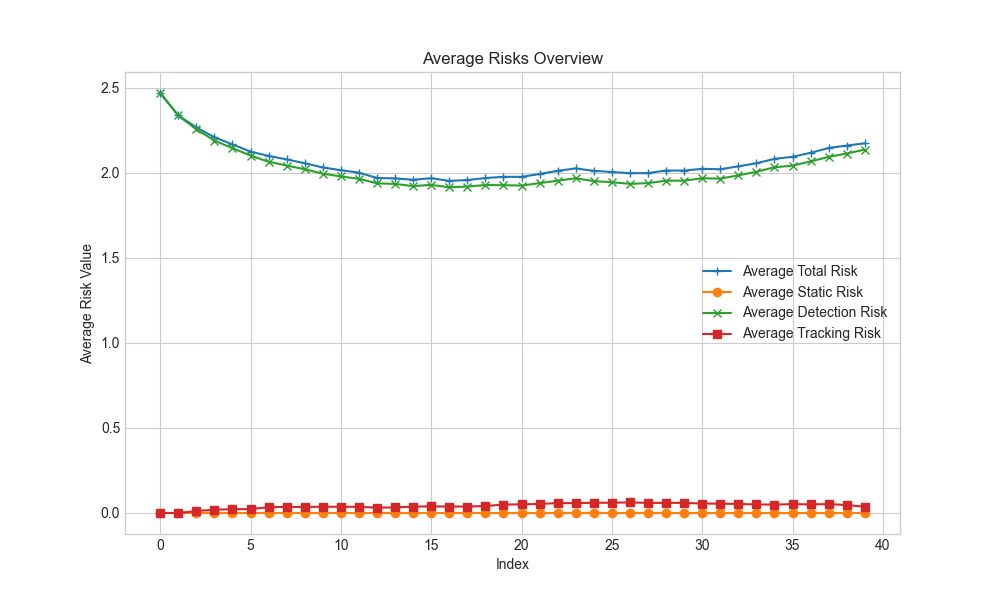
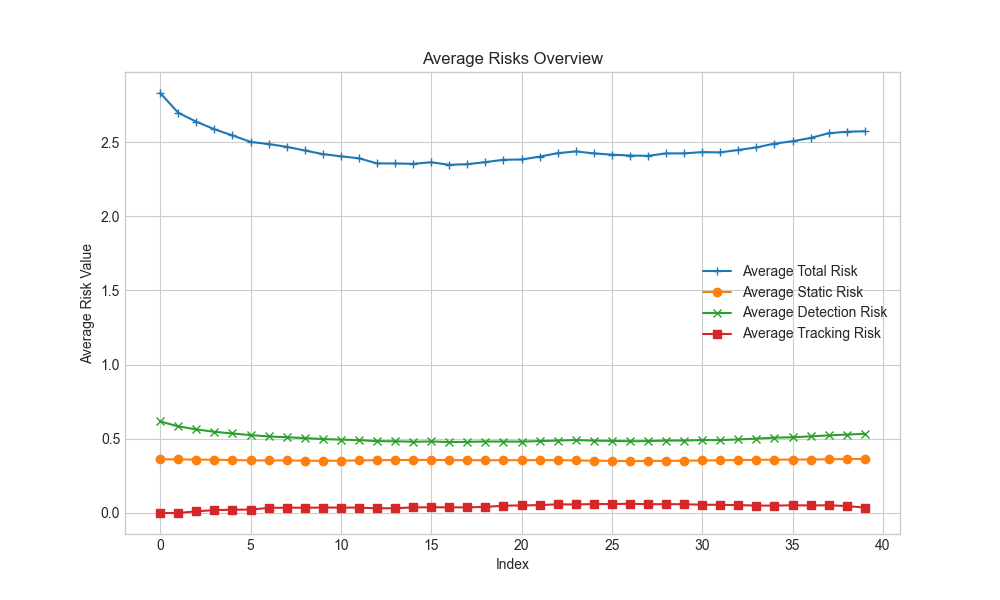
Added more comments

diff --git a/Scripts/Main.py b/Scripts/Main.py
@@ -46,120 +46,146 @@ risk_weights = (1, 4, 2) # (0.5, 2, 10) # static, detection, tracking
 
 scene_id = 1
 RESOLUTION = 0.5 # meter
-run_detect = True
+run_detect = False
 run_obj = False
 plot_layers = False
 plot_pointcloud = False
 show_pointcloud = False
 plot_occ_hist = False
+plot_occ = False
+plot_risk = False
 
 constant_power = True
 
 def main(map_short, id, LIDAR_RANGE, RESOLUTION, OCC_ACCUM, LIDAR_DECAY, constant_power):
-
+    # Entry point for the main simulation function
     print("Starting main function...")
+
+    # Initialize the map object with given parameters
     map = Map(dataroot, map_name, map_width, map_height, id, LIDAR_RANGE, RESOLUTION, OCC_ACCUM, LIDAR_DECAY)
 
+    # Determine the simulation type based on power mode
     if constant_power:
         sim_type = 'Constant Power'
     else:
         sim_type = 'Variable Power'
-    # Create a folder to save the run and plots if it doesn't already exist
-    # Create the Run/Boston/scene 1 folder structure
-    run_folder = os.path.join("Runs", map_short, f"scene {id} res={RESOLUTION}", sim_type)
-    os.makedirs(run_folder, exist_ok=True)
 
-    plots_folder = os.path.join(run_folder,'plots')
+    # Create a folder structure to save the run results and plots
+    run_folder = os.path.join("Runs", map_short, f"scene {id} res={RESOLUTION}", sim_type)
+    os.makedirs(run_folder, exist_ok=True)  # Ensure the directory exists
+
+    # Create subdirectories for storing plots and GIFs
+    plots_folder = os.path.join(run_folder, 'plots')
     os.makedirs(plots_folder, exist_ok=True)
 
-    gif_folder = os.path.join(run_folder,'GIFs')
+    gif_folder = os.path.join(run_folder, 'GIFs')
     os.makedirs(gif_folder, exist_ok=True)
 
-    # Paths for data, plots, and subfolders
+    # Paths for data and specific plots
     scene_data_path = os.path.join(run_folder, "data")
     layer_plot_path = os.path.join(plots_folder, "layers.png")
+
+    # Subdirectories for specific plot types
     risk_plots_folder = os.path.join(plots_folder, "risks")
     pointclouds_folder = os.path.join(plots_folder, "pointclouds")
     pointclouds_overlay_folder = os.path.join(plots_folder, "pointclouds overlay")
     occ_folder = os.path.join(plots_folder, "occurrence")
     occ_hist_folder = os.path.join(plots_folder, "occurrence histograms")
-    
-    # Create subfolders
+
+    # Ensure subdirectories exist
     os.makedirs(risk_plots_folder, exist_ok=True)
     os.makedirs(pointclouds_folder, exist_ok=True)
     os.makedirs(pointclouds_overlay_folder, exist_ok=True)
     os.makedirs(occ_folder, exist_ok=True)
     os.makedirs(occ_hist_folder, exist_ok=True)
 
-    # Assign layers to the grid in parallel
+    # Assign layers to the map grid
     map.assign_layer(scene_data_path, prnt=False)
-    
-    # Generate and save the layer plot
+
+    # Optionally generate and save a plot of the map layers
     if plot_layers:
         Visualise.plot_layers(map.grid, layer_plot_path)
 
-    # Initialize risk calculation
+    # Initialize components for risk calculation, object tracking, and detection
     risk = Risk()
     obj = Object(map)
     dec = Detect(map, constant_power=constant_power)
 
-    # Calculate risk for each sample
+    # Process each sample in the map
     for i, sample in enumerate(map.samples):
-        #TODO add a check if it has already been set
+        # Update object data if required
         if run_obj:
-            map.grid.total_obj[i], map.grid.total_obj_sev[i] = obj.update(sample=sample,x=0,y=0,sample_index=i, prnt=False)
+            map.grid.total_obj[i], map.grid.total_obj_sev[i] = obj.update(sample=sample, x=0, y=0, sample_index=i, prnt=False)
 
-        #TODO add a check if it has already been set
+        # Update detection data if required
         if run_detect:
             dec.update(sample=sample, sample_index=i, prnt=False)
-        
-        # Save individual pointcloud plots
+
+        # Save point cloud plots for each sample
         if plot_pointcloud:
             Visualise.save_pointcloud_scatterplot(map, dec.lidarpoint, i, pointclouds_folder, overlay=False)
             Visualise.save_pointcloud_scatterplot(map, dec.lidarpoint, i, pointclouds_overlay_folder, overlay=True)
-        
+
         print(f"sample {i} complete\n")
 
-    # normalise the risk elements between 0 and 1
-    # calculate the total risk based on the weights
+    # Normalize risk data and calculate total risk
     normalise_and_calc_risks(map, risk_weights)
 
+    # Retrieve global maxima for visualization scaling
     maxs = get_global_max(map=map)
-    for i, sample in enumerate(map.samples):
-        # update total variables
-        map.update(sample=sample,i=i, weights=risk_weights)
 
-        # Save individual risk plots
-        Visualise.plot_risks_maximised(map.grid, i, maxs, risk_plots_folder)
-        Visualise.plot_occ(map.grid, i, occ_folder)   
-        
-        # plot occurrence range histograms
+    # Update map grid with risk and object metrics, and generate plots for each sample
+    for i, sample in enumerate(map.samples):
+        map.update(i=i, weights=risk_weights)  # Update grid with calculated weights
+
+        if plot_risk:
+            Visualise.plot_risks_maximised(map.grid, i, maxs, risk_plots_folder)
+
+        if plot_occ:
+            Visualise.plot_occ(map.grid, i, occ_folder)
+
         if plot_occ_hist:
             Visualise.plot_occ_histogram(map, i, occ_hist_folder)
 
-    # save the grid with the new risk values 
+    # Save updated map grid with new risk values
     map.save_grid(scene_data_path)
 
+    # Generate summary plots for the simulation
     Visualise.plot_avg_risks(map.grid, plots_folder)
     Visualise.plot_avg_occ(map.grid.avg_occ, 'Average Occurrence', plots_folder)
     Visualise.plot_total_var(map.grid.total_obj, 'Total Objects', plots_folder)
     Visualise.plot_total_var(map.grid.total_obj_sev, 'Total Object severity', plots_folder)
     Visualise.plot_avg_occ_histogram(map, plots_folder)
 
-    # create gifs of all results
-    Visualise.create_gif_from_folder(risk_plots_folder, os.path.join(gif_folder,'risks.gif'))
-    Visualise.create_gif_from_folder(pointclouds_folder, os.path.join(gif_folder,'pointcloud.gif'))
-    Visualise.create_gif_from_folder(pointclouds_overlay_folder, os.path.join(gif_folder,'pointcloud_layers.gif'))
-    Visualise.create_gif_from_folder(occ_folder, os.path.join(gif_folder,'occurrence.gif'))
-    Visualise.create_gif_from_folder(occ_hist_folder, os.path.join(gif_folder,'occurrence_hist.gif'))
+    # Create GIFs for visualizing results
+    Visualise.create_gif_from_folder(risk_plots_folder, os.path.join(gif_folder, 'risks.gif'))
+    Visualise.create_gif_from_folder(pointclouds_folder, os.path.join(gif_folder, 'pointcloud.gif'))
+    Visualise.create_gif_from_folder(pointclouds_overlay_folder, os.path.join(gif_folder, 'pointcloud_layers.gif'))
+    Visualise.create_gif_from_folder(occ_folder, os.path.join(gif_folder, 'occurrence.gif'))
+    Visualise.create_gif_from_folder(occ_hist_folder, os.path.join(gif_folder, 'occurrence_hist.gif'))
 
-    # check scene data size, if more than 100MB give a warning message to add it to the gitignore
+    # Check the size of the scene data file and warn if it exceeds 100MB
     data_size = os.path.getsize(scene_data_path)
-    if (data_size > 100000000):
-        print(f'\nDATA FILE {scene_data_path} \nIS TOO BIG FOR GITHUB: ADD IT TO THE GITIGNORE FILE')
-    print('Done')
+    if data_size > 100000000:  # File size threshold in bytes
+        scene_data_path = scene_data_path.replace('\\', '/')  # Ensure path is in a standard format
+        try:
+            with open('.gitignore', 'r') as f:
+                gitignore_contents = f.read().splitlines()
+            if not any(scene_data_path in line for line in gitignore_contents):
+                print(f'\nDATA FILE {scene_data_path} \nIS TOO BIG FOR GITHUB: ADD IT TO THE GITIGNORE FILE')
+        except:
+            pass  # Silently handle exceptions if .gitignore is not accessible
+
+    print('Done')  # End of the main function
+
 
 def get_global_max(map):
+    """
+    Finds the global maximum values for total, static, detect, and track risks in the map.
+
+    Returns:
+    tuple: Maximum values for (total, static, detect, track) risks.
+    """
     max_total = max(np.max(np.array(matrix)) for matrix in [map.grid.get_total_risk_matrix(i) for i in range(map.grid.scene_length)])
     max_static = np.max(np.array(map.grid.get_static_risk_matrix()))
     max_detect = max(np.max(np.array(matrix)) for matrix in [map.grid.get_detect_risk_matrix(i) for i in range(map.grid.scene_length)])
@@ -167,25 +193,19 @@ def get_global_max(map):
     return (max_total, max_static, max_detect, max_track)
 
 def normalise_and_calc_risks(map, weights):
-    maxs = get_global_max(map)
-    max_total, max_static, max_detect, max_track = [value if value > 0 else 1 for value in maxs]
+    """
+    Normalizes risks and calculates total risk per cell using given weights.
+    """
+    max_total, max_static, max_detect, max_track = [value if value > 0 else 1 for value in get_global_max(map)]
     w_s, w_d, w_t = weights
-
-
-    print(f'maxs before norm = {maxs}')
-    print(f'max_track before norm = {max_track}')
+    
     for row in map.grid.grid:
         for cell in row:
-            cell.static_risk = cell.static_risk/max_static
+            cell.static_risk /= max_static
             cell.detect_risk = [detect_risk/max_detect for detect_risk in cell.detect_risk]
             cell.track_risk = [track_risk/max_track for track_risk in cell.track_risk]
             for i in range(len(cell.detect_risk)):
                 cell.total_risk[i] = w_s * cell.static_risk + w_d * cell.detect_risk[i] + w_t * cell.track_risk[i]
-    
-    maxs = get_global_max(map)
-    max_total, max_static, max_detect, max_track = [value if value > 0 else 1 for value in maxs]
-    print(f'maxs = after norm {maxs}')
-    print(f'max_track after norm = {max_track}')
 
 # This ensures that the code is only executed when the script is run directly
 if __name__ == '__main__':

diff --git a/Scripts/Grid.py b/Scripts/Grid.py
@@ -61,13 +61,13 @@ class Grid:
 
         return layer_counts
     
-    def calc_total_vars(self, rang, ego, i, weights):
+    def calc_avg_vars(self, rang, ego, i, weights):
         self.cells_off_interest = self.circle_of_interrest(rang, ego)
 
         self.cells_off_interest = [cell for cell in self.cells_off_interest if cell.layer != 'empty']
         num_nonempty_cells = len(self.cells_off_interest)
 
-        # initialise the variables 
+        # reset the variables 
         self.avg_total_risk[i] = 0
         self.avg_static_risk[i] = 0
         self.avg_detection_risk[i] = 0
@@ -79,8 +79,6 @@ class Grid:
             self.avg_static_risk[i] += cell.static_risk
             self.avg_detection_risk[i] += cell.detect_risk[i]
             self.avg_tracking_risk[i] += cell.track_risk[i]
-            #if i == 2:
-            #    print(f'cell.detect_risk[{i}] = {cell.detect_risk[i]}')
             self.avg_total_risk[i] += cell.total_risk[i]
             self.avg_occ[i] += cell.occ[i]
 
@@ -109,15 +107,10 @@ class Grid:
             smaller_range_cells.update(current_range_cells)
         w_static, w_detect, w_track = weights
 
-        self.avg_static_risk[i] *= w_static / num_nonempty_cells
-        self.avg_detection_risk[i] *= w_detect / num_nonempty_cells
-        self.avg_tracking_risk[i] *= w_track / num_nonempty_cells
-        self.avg_total_risk[i] = self.avg_static_risk[i] + self.avg_detection_risk[i] + self.avg_tracking_risk[i]
-
-        #print(f'avg static risk it {i} = {self.avg_static_risk[i]}')
-        #print(f'avg detection risk it {i} = {self.avg_detection_risk[i]}')
-        #print(f'avg tracking risk it {i} = {self.avg_tracking_risk[i]}')
-        #print(f'avg total risk it {i} = {self.avg_total_risk[i]}')
+        self.avg_static_risk[i] /= num_nonempty_cells
+        self.avg_detection_risk[i] /= num_nonempty_cells
+        #self.avg_tracking_risk[i] /= num_nonempty_cells
+        self.avg_total_risk[i] = w_static * self.avg_static_risk[i] + w_detect * self.avg_detection_risk[i] + w_track * self.avg_tracking_risk[i]
         
         
     def circle_of_interrest(self, range, ego):

diff --git a/Scripts/test.py b/Scripts/test.py
@@ -1,11 +1,17 @@
 import pickle
-
-file_path = "Runs/Boston/scene 1 res=0.5/Constant Power/data"
+scene_data_path = 'Runs\Boston\scene 1 res=0.5\Constant Power\data'
+scene_data_path = scene_data_path.replace('\\', '/')
 try:
-    with open(file_path, 'rb') as f:
-        data = pickle.load(f)
-    print("File loaded successfully:", data)
-except EOFError:
-    print("EOFError: File is empty or corrupted.")
-except Exception as e:
-    print(f"An error occurred: {e}")
+    with open('.gitignore', 'r') as f:
+        gitignore_contents = f.read().splitlines()
+        for line in gitignore_contents:
+            print(line)
+            print(scene_data_path)
+            print((line == scene_data_path))
+    # Check if the data file is already in the .gitignore
+    if any(scene_data_path in line for line in gitignore_contents):
+        print(f"DATA FILE {scene_data_path} IS ALREADY IN THE .GITIGNORE FILE.")
+    else:
+        print(f'\nDATA FILE {scene_data_path} \nIS TOO BIG FOR GITHUB: ADD IT TO THE GITIGNORE FILE')
+except:
+    print()

diff --git a/Scripts/Map.py b/Scripts/Map.py
@@ -52,9 +52,8 @@ class Map:
         # get all records within your map
         self.rec = self.get_records_in_patch(self.patch)
 
-    def update(self, sample, i, weights):
-        self.grid.calc_total_vars(rang=self.range, ego=self.ego_positions[i], i=i, weights=weights)
-        # Add a visualise total plots statement?
+    def update(self, i, weights):
+        self.grid.calc_avg_vars(rang=self.range, ego=self.ego_positions[i], i=i, weights=weights)
 
     def get_scene(self, index):
         #sample array
